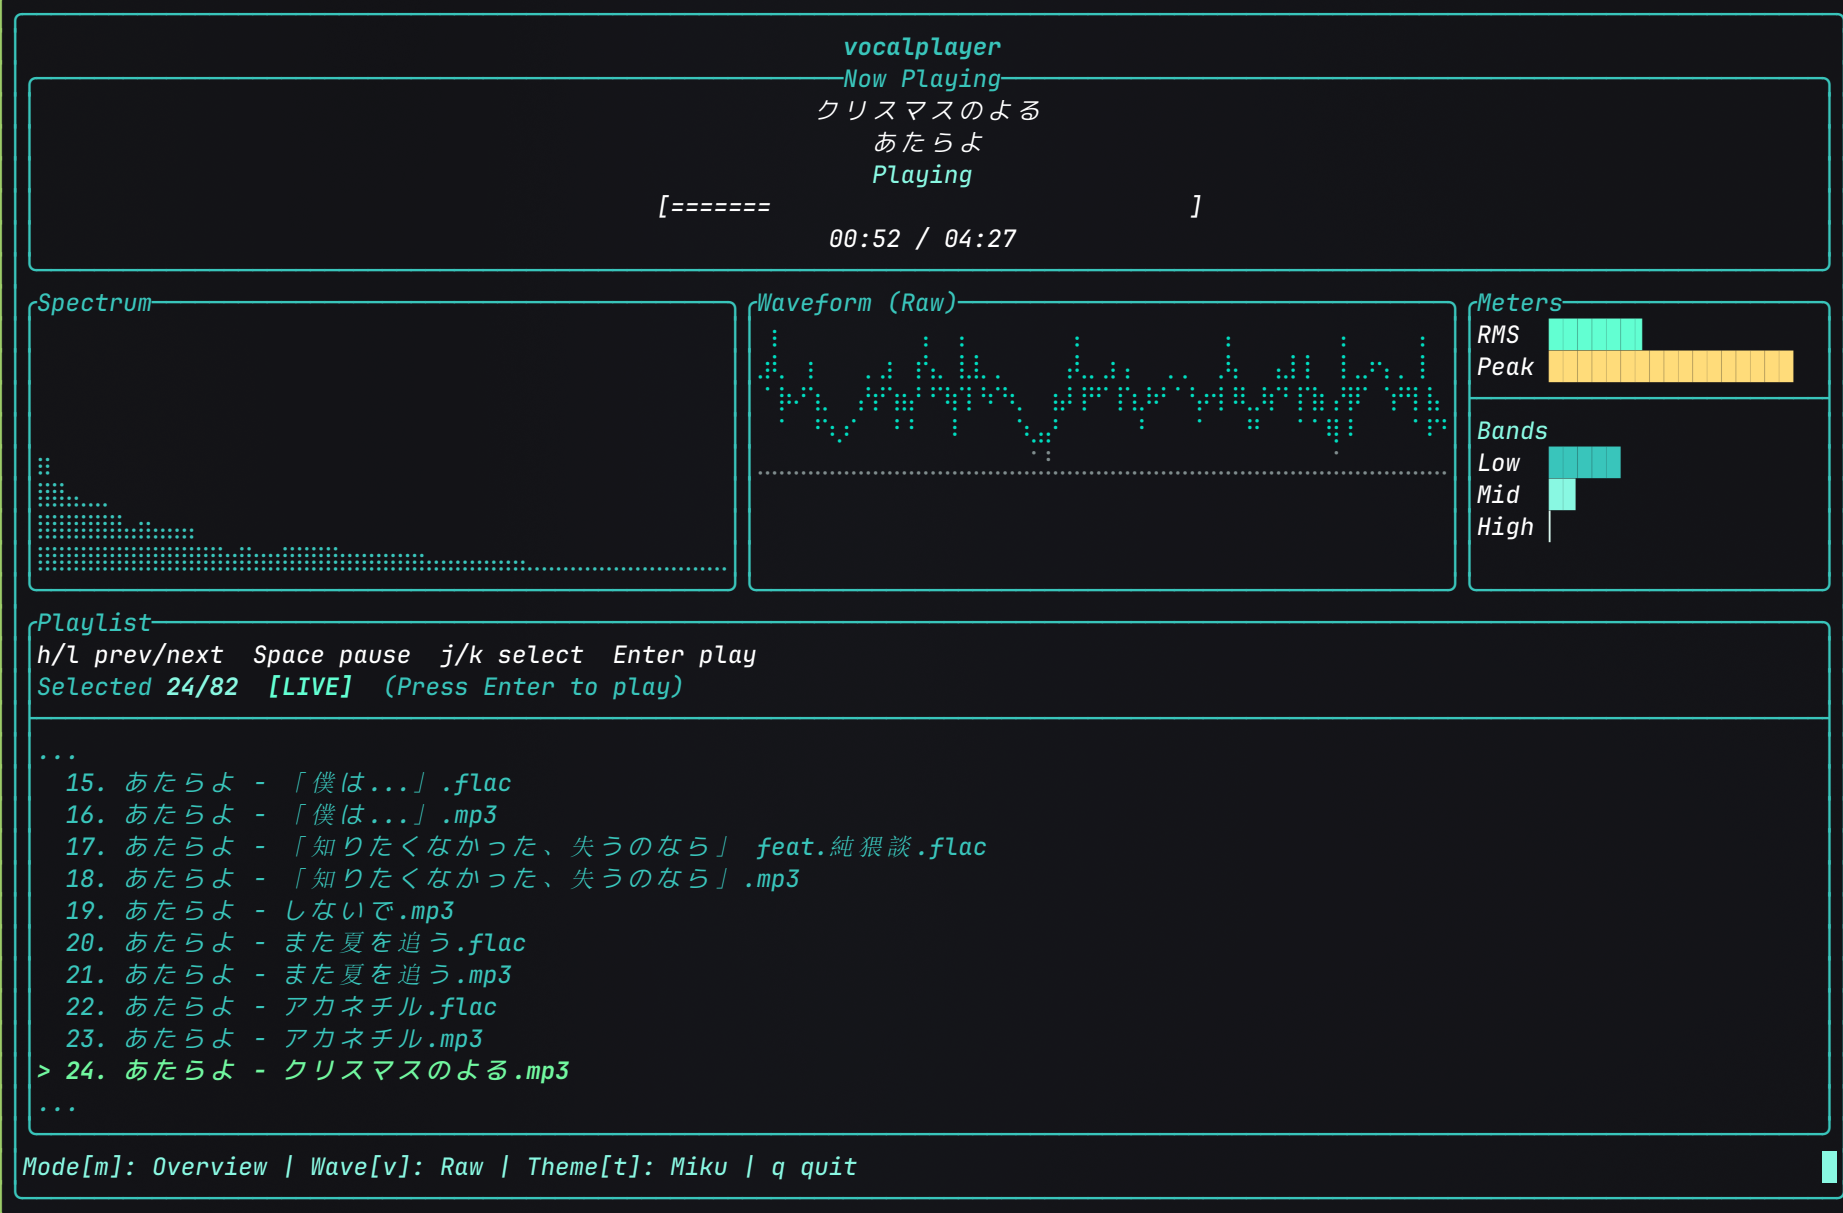
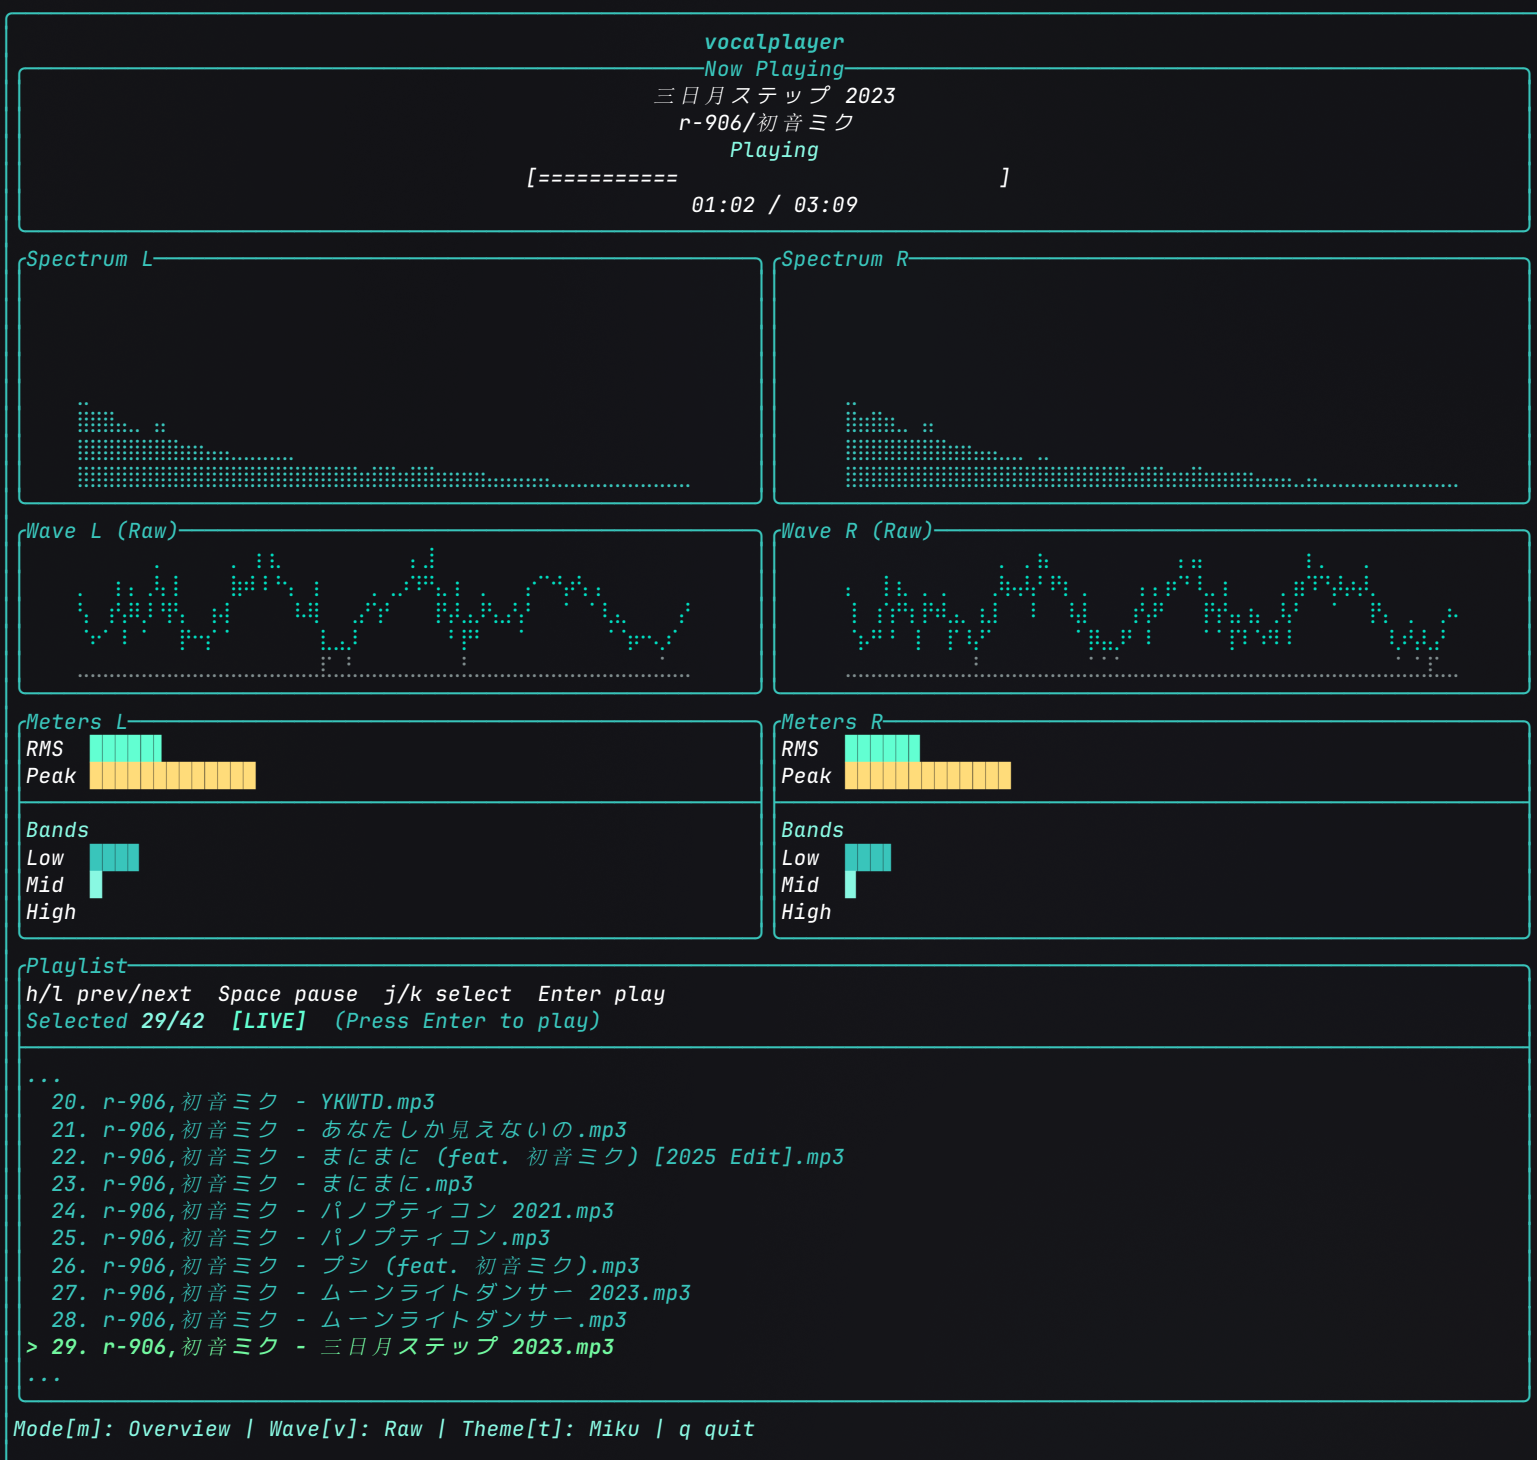
tui: spectrum and waveform canvases are horizontally centered in their panels

diff --git a/src/ui/tui_renderer.cpp b/src/ui/tui_renderer.cpp
@@ -50,14 +50,21 @@ std::string FormatTime(double total_seconds) {
   return oss.str();
 }
 
-// Render normalized spectrum bars and peak-hold markers.
+/**
+ * @brief Render spectrum bars with peak-hold markers inside a centered canvas.
+ *
+ * @param bars Normalized bar amplitudes in [0, 1].
+ * @param peaks Peak-hold markers aligned with bars.
+ * @param theme Active color theme.
+ * @return FTXUI element centered horizontally in the parent container.
+ */
 Element RenderSpectrum(const std::vector<float>& bars,
                        const std::vector<float>& peaks, const Theme& theme) {
   if (bars.empty()) {
-    return text("(no spectrum data)");
+    return hcenter(text("(no spectrum data)"));
   }
   const int canvas_width = static_cast<int>(bars.size() * 2);
-  return canvas(
+  return hcenter(canvas(
       canvas_width, kSpectrumCanvasHeight,
       [bars, peaks, theme, canvas_width](Canvas& c) {
         const int baseline = kSpectrumCanvasHeight - 1;
@@ -89,16 +96,22 @@ Element RenderSpectrum(const std::vector<float>& bars,
             }
           }
         }
-      });
+      }));
 }
 
-// Render waveform points as a connected canvas line graph.
+/**
+ * @brief Render waveform polyline inside a centered canvas.
+ *
+ * @param wave Normalized waveform samples in [0, 1].
+ * @param theme Active color theme.
+ * @return FTXUI element centered horizontally in the parent container.
+ */
 Element RenderWaveform(const std::vector<float>& wave, const Theme& theme) {
   if (wave.empty()) {
-    return text("(no waveform data)");
+    return hcenter(text("(no waveform data)"));
   }
   const int canvas_width = static_cast<int>(wave.size());
-  return canvas(
+  return hcenter(canvas(
       canvas_width, kWaveformCanvasHeight,
       [wave, theme, canvas_width](Canvas& c) {
         const int max_y = kWaveformCanvasHeight - 1;
@@ -121,7 +134,7 @@ Element RenderWaveform(const std::vector<float>& wave, const Theme& theme) {
         if (canvas_width > 0) {
           c.DrawPointLine(0, max_y, canvas_width - 1, max_y, Color::GrayDark);
         }
-      });
+      }));
 }
 
 /**

diff --git a/changelog.md b/changelog.md
@@ -11,12 +11,10 @@
   `CoalescingRedrawGate` 合并唤醒，使用 `Post(Closure)` + `RequestAnimationFrame()`
   替代高频 `PostEvent(Event::Custom)`，减轻与 FTXUI 内置定时任务共享队列时的积压，
   改善锁屏/解锁后可视化卡顿与时间显示迟滞。
-- TUI refresh: `VisualUpdatePipeline` publishes frames from a worker thread and
-  coalesces redraw wakeups (`Post` + `RequestAnimationFrame`) instead of
-  per-tick `Event::Custom`, reducing FTXUI task-queue backlog after screen lock.
 
 ### Changed
 
+- TUI：频谱与波形 canvas 在各自 `window` 内水平居中（`hcenter`），避免宽面板下贴左留白。
 - 立体声可视化：`AudioEngine::GetRecentChannelWindow` 按声道提取分析窗；
   `ChannelVisuals` + `VisualFrame::left`/`right` 承载左右独立频谱/波形/仪表；
   单声道曲目复制声道 0 到两侧。`GetRecentMonoWindow` 已移除。